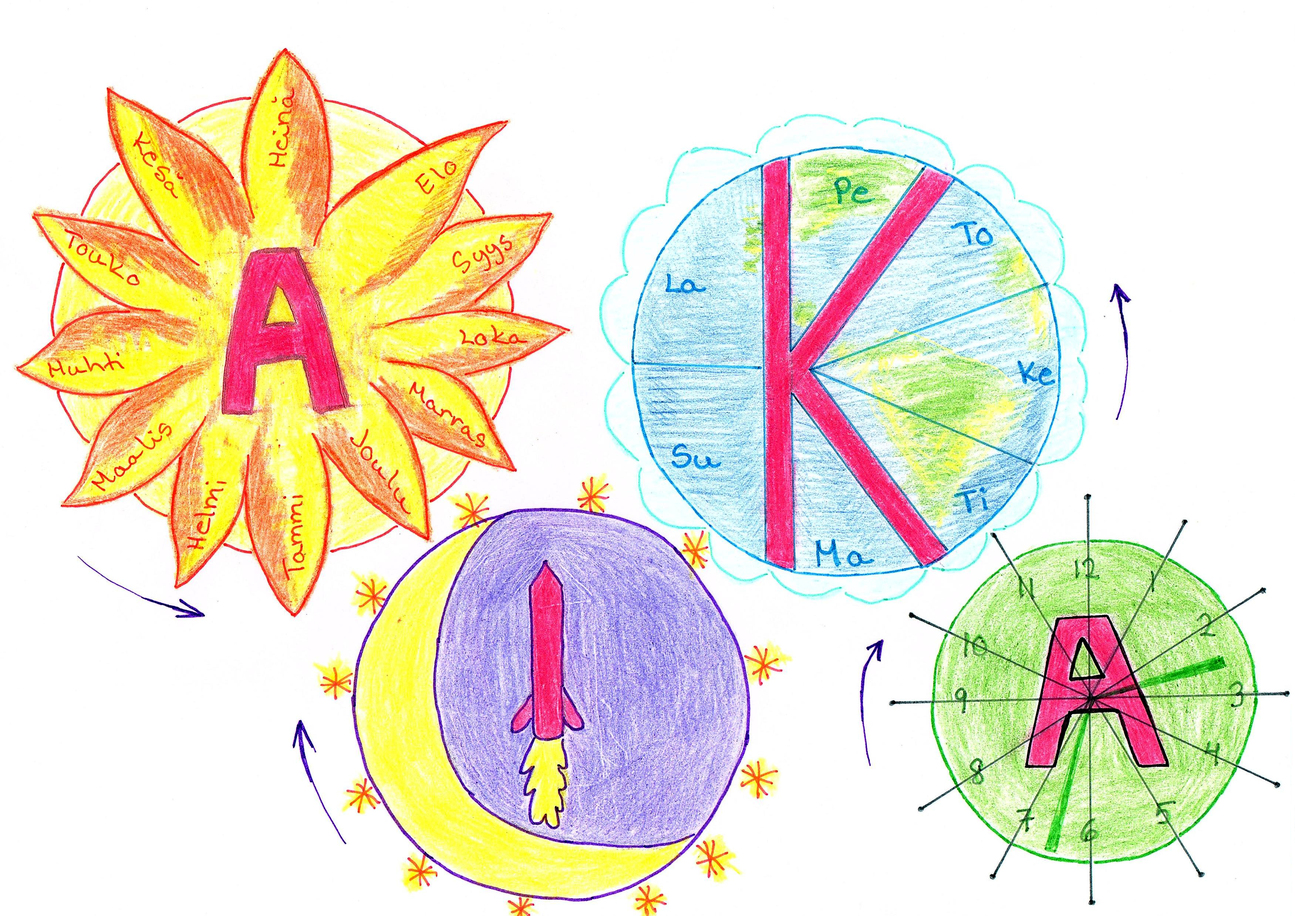
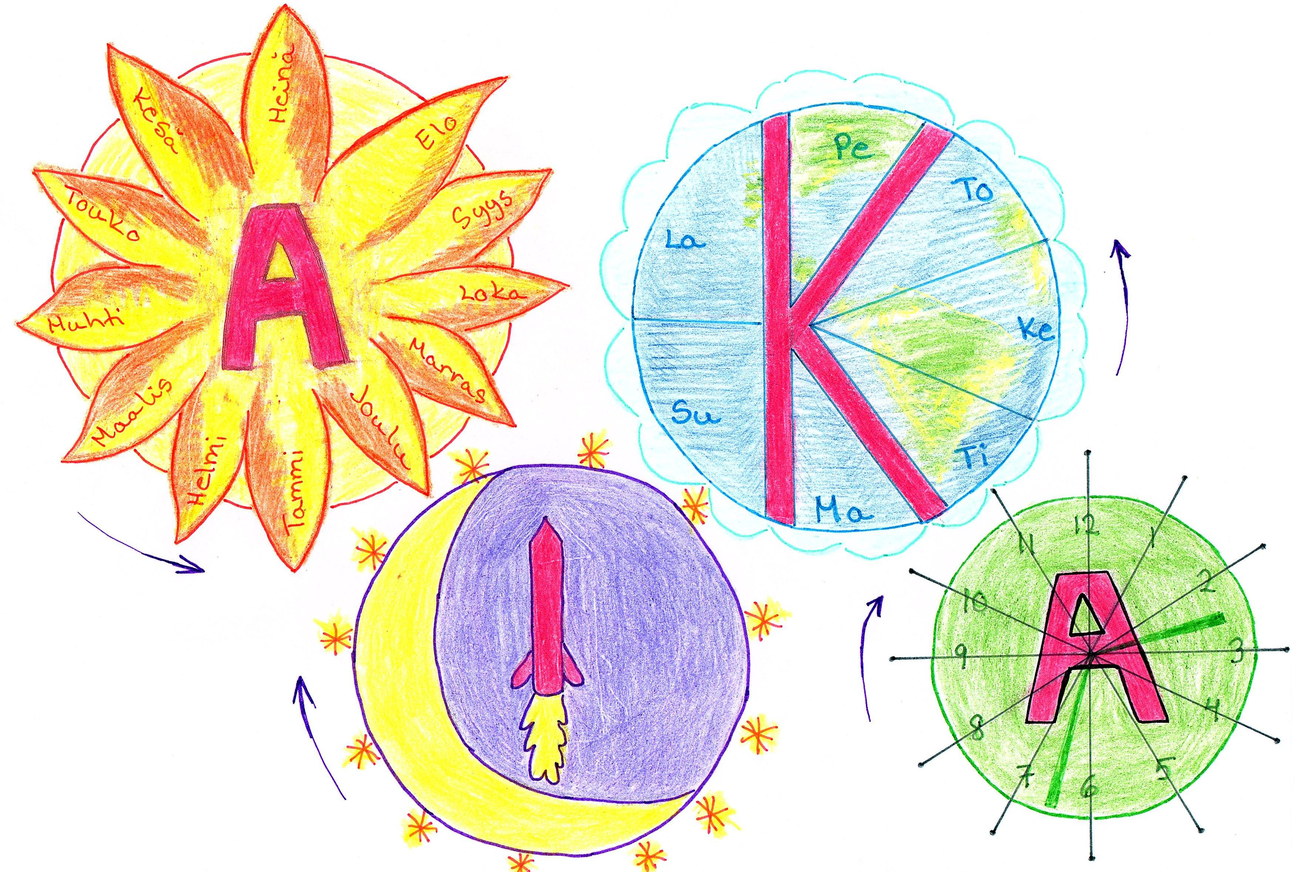
Ulkoasun hienosäätöä.

diff --git a/Ajankulku/ajankulku.html b/Ajankulku/ajankulku.html
@@ -37,6 +37,7 @@
     <div class="container">
       <div class="row">
         <div class="col-sm center">
+          <br><br>
           <img src="Kuvat/Aikaratas_vaaka.jpg" class="img-fluid" alt="Auringon, kuun, maapallon ja kellon muodostama aikaratas.">
         </div>
       </div>
@@ -55,6 +56,7 @@
               <a class="nav-link" href="#alkusanat"><strong>Alkusanat</strong></a>
               <a class="nav-link" href="#vuosi"><strong>Vuosi</strong></a>
               <a class="nav-link" href="#vuodenajat">Vuodenajat</a>
+              <a class="nav-link" href="#aikaansaa_vuodenajat">Mikä aikaansaa vuodenajat</a>
               <a class="nav-link" href="#tahti_vuodenajat">Tähtitieteelliset vuodenajat</a>
               <a class="nav-link" href="#termiset_vuodenajat">Termiset vuodenajat</a>
               <a class="nav-link" href="#kuukausi_vuodenajat">Vuodenaikoihin kuuluvat kuukaudet</a>
@@ -179,7 +181,6 @@
           <p>Pohjantähti osoittaa aina pohjoiseen, joten sitä voidaan käyttää navigoinnin apuna. Eteläisellä pallonpuoliskolla ei eteläisen taivaannavan lähistöllä ole yhtä selvästi erottuvaa tähteä.</p>
         </div>
         <div class="col-sm-5 center">
-          <br><br>
           <img class="kuva" src="Kuvat/Napapiirit.jpg" alt="Pohjois- ja etelänavan välissä olevat napa- ja kääntöpiirit.">
         </div>
       </div>

diff --git a/Ajankulku/index.html b/Ajankulku/index.html
@@ -37,6 +37,7 @@
     <div class="container">
       <div class="row">
         <div class="col-sm center">
+          <br><br>
           <img src="Kuvat/Aloituskuva.PNG" class="img-fluid" alt="Tekniikka ja hyvinvointi kohtaavat">
         </div>
       </div>
@@ -53,7 +54,7 @@
             <img class="kuva" src="Kuvat/Aikaratas.jpg" alt="Auringon, kuun, maapallon ja kellon muodostama aikaratas.">
           </div>
           <div class="col-sm center">
-            <br><br><br><br>
+            <br>
             <h2>Ajankulku</h2>
             <p><strong>Ajatonta tietoa ajan yksiköistä.</strong></p>
             <p>Ajankulku sai alkunsa lasten kysymyksistä. Pohdittiin mihin ajan yksiköt perustuvat. 

diff --git a/Ajankulku/styles.css b/Ajankulku/styles.css
@@ -1,7 +1,13 @@
-h1, h2, h3 {
+h1, h2 {
     font-style: italic;
     color: blueviolet;
     text-shadow: 2px 2px 2px black;
+}
+
+h3 {
+    font-style: italic;
+    color: blueviolet;
+    text-shadow: 1px 1px 1px black;
 }
 
 li {
@@ -60,6 +66,7 @@ tr:hover {
 
 .kuva {
     width: 100%;
+    text-align: center;
 }
 
 .kuva_pienennys {

diff --git a/Ajankulku/ota_yhteytta.html b/Ajankulku/ota_yhteytta.html
@@ -37,6 +37,7 @@
     <div class="container">
       <div class="row">
         <div class="col-sm center">
+          <br><br>
           <img src="Kuvat/Kukat.jpg" class="img-fluid kuva" alt="">
         </div>
       </div>
